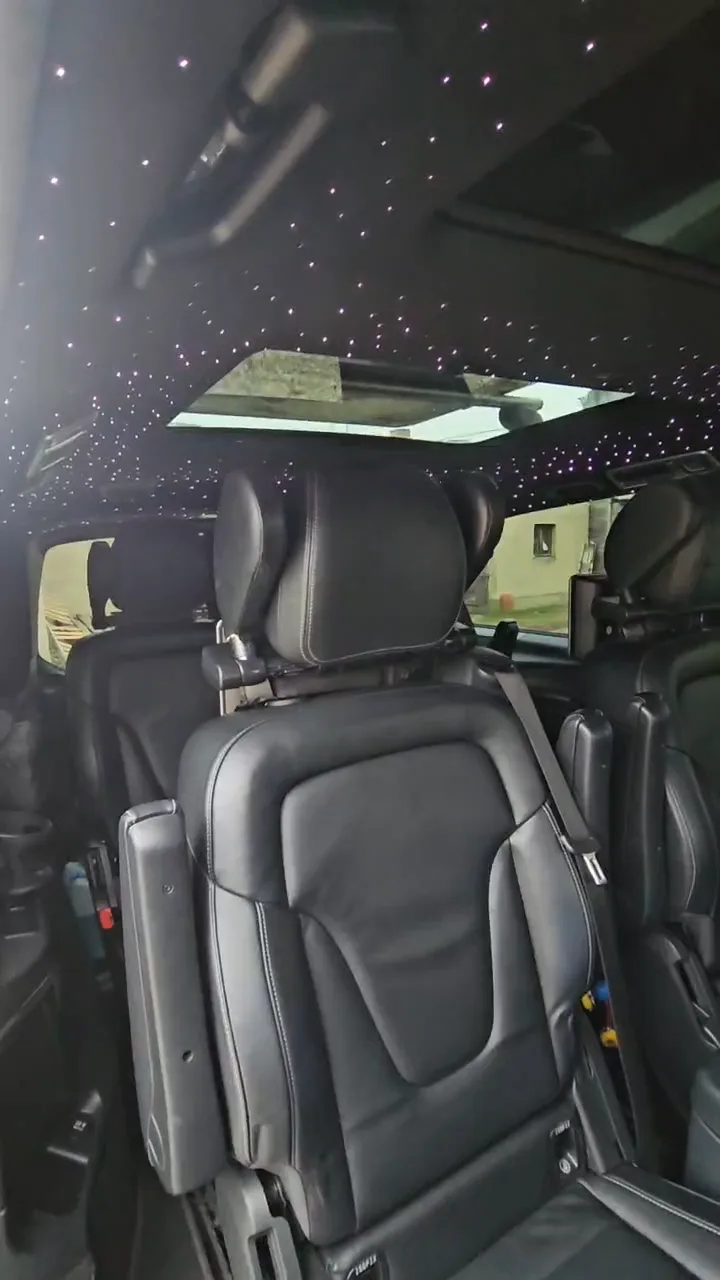
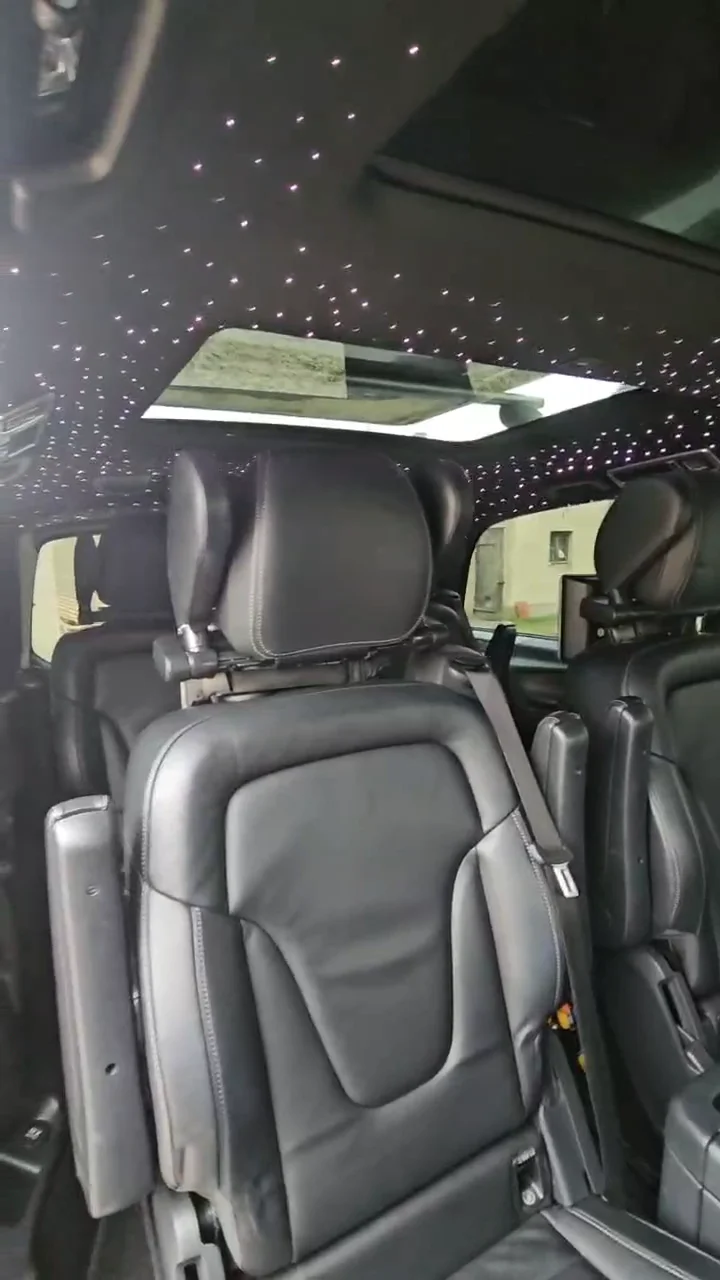
feat: blog media slider with thumbnails, sharper starry sky frame

diff --git a/apps/website/src/app/[locale]/blog/Blog.tsx b/apps/website/src/app/[locale]/blog/Blog.tsx
@@ -1,5 +1,6 @@
 "use client";
 
+import { ChevronLeft, ChevronRight, Play } from "lucide-react";
 import { useTranslations } from "next-intl";
 import { useCallback, useEffect, useRef, useState } from "react";
 
@@ -24,77 +25,108 @@ type Props = {
   locale: string;
 };
 
-function getMediaLayout(item: BlogPostMedia) {
-  const width = item.width ?? 0;
-  const height = item.height ?? 0;
-  const ratio = width > 0 && height > 0 ? width / height : 16 / 9;
+function PostMediaSlider({ media, title }: { media: BlogPostMedia[]; title: string }) {
+  const items = media.filter((item) => item.type);
+  const [current, setCurrent] = useState(0);
+  const thumbsRef = useRef<HTMLDivElement>(null);
 
-  if (ratio <= 0.8) {
-    return {
-      className: "w-full max-w-sm mx-auto",
-      aspectRatio: "9 / 16",
-    };
-  }
+  const go = useCallback(
+    (index: number) => setCurrent((index + items.length) % items.length),
+    [items.length],
+  );
 
-  if (ratio <= 1.2) {
-    return {
-      className: "w-full max-w-lg mx-auto",
-      aspectRatio: "1 / 1",
-    };
-  }
+  useEffect(() => {
+    const thumb = thumbsRef.current?.children[current] as HTMLElement | undefined;
+    thumb?.scrollIntoView({ block: "nearest", inline: "center", behavior: "smooth" });
+  }, [current]);
 
-  return {
-    className: "w-full",
-    aspectRatio: "16 / 9",
-  };
+  if (items.length === 0) return null;
+  const active = items[current];
+
+  return (
+    <div className="flex flex-col gap-2 p-2">
+      <div className="relative w-full aspect-[4/5] tablet:aspect-[4/3] rounded-md overflow-hidden bg-black">
+        {active.type === "video" ? (
+          <video
+            key={active.url}
+            src={active.url}
+            controls
+            playsInline
+            autoPlay={current > 0}
+            muted
+            loop
+            className="w-full h-full object-contain"
+          />
+        ) : (
+          // eslint-disable-next-line @next/next/no-img-element
+          <img src={active.url} alt={title} className="w-full h-full object-contain" />
+        )}
+        {items.length > 1 && (
+          <>
+            <button
+              type="button"
+              aria-label="Zurück"
+              onClick={() => go(current - 1)}
+              className="absolute left-2 top-1/2 -translate-y-1/2 w-9 h-9 rounded-full bg-black/50 text-white flex items-center justify-center hover:bg-black/70"
+            >
+              <ChevronLeft size={20} />
+            </button>
+            <button
+              type="button"
+              aria-label="Weiter"
+              onClick={() => go(current + 1)}
+              className="absolute right-2 top-1/2 -translate-y-1/2 w-9 h-9 rounded-full bg-black/50 text-white flex items-center justify-center hover:bg-black/70"
+            >
+              <ChevronRight size={20} />
+            </button>
+            <div className="absolute bottom-2 right-2 rounded-full bg-black/50 text-white text-xs px-2 py-0.5">
+              {current + 1} / {items.length}
+            </div>
+          </>
+        )}
+      </div>
+      {items.length > 1 && (
+        <div ref={thumbsRef} className="flex gap-2 overflow-x-auto pb-1">
+          {items.map((item, index) => (
+            <button
+              key={`${item.url}-${index}`}
+              type="button"
+              aria-label={`${index + 1} / ${items.length}`}
+              aria-current={index === current}
+              onClick={() => setCurrent(index)}
+              className={`relative shrink-0 w-16 h-16 rounded-md overflow-hidden bg-black border-2 transition-opacity ${
+                index === current ? "border-white opacity-100" : "border-transparent opacity-60 hover:opacity-100"
+              }`}
+            >
+              {item.type === "video" ? (
+                <>
+                  <video
+                    src={`${item.url}#t=0.5`}
+                    preload="metadata"
+                    muted
+                    playsInline
+                    className="w-full h-full object-cover pointer-events-none"
+                  />
+                  <span className="absolute inset-0 flex items-center justify-center bg-black/30 text-white">
+                    <Play size={16} fill="currentColor" />
+                  </span>
+                </>
+              ) : (
+                // eslint-disable-next-line @next/next/no-img-element
+                <img src={item.url} alt="" className="w-full h-full object-cover" />
+              )}
+            </button>
+          ))}
+        </div>
+      )}
+    </div>
+  );
 }
 
 function PostCard({ post, locale }: { post: BlogPost; locale: string }) {
   return (
     <article className="flex flex-col gap-3 w-full border gk-stroke-neutral-low rounded-lg overflow-hidden gk-fill-neutral-xlow">
-      {post.media.length > 0 && (
-        <div className="flex flex-col gap-2 p-2">
-          {post.media.map((item, index) => {
-            const layout = getMediaLayout(item);
-
-            if (item.type === "video") {
-              return (
-                <div
-                  key={`${post.id}-media-${index}`}
-                  className={layout.className}
-                  style={{ aspectRatio: layout.aspectRatio }}
-                >
-                  <video
-                    src={item.url}
-                    controls
-                    playsInline
-                    className="w-full h-full rounded-md gk-fill-inverted-xxhigh object-cover"
-                  />
-                </div>
-              );
-            }
-
-            if (item.type === "image") {
-              return (
-                <div
-                  key={`${post.id}-media-${index}`}
-                  className={layout.className}
-                  style={{ aspectRatio: layout.aspectRatio }}
-                >
-                  {/* eslint-disable-next-line @next/next/no-img-element */}
-                  <img
-                    src={item.url}
-                    alt={post.title}
-                    className="w-full h-full rounded-md gk-fill-inverted-xxhigh object-cover"
-                  />
-                </div>
-              );
-            }
-
-            return null;
-          })}
-        </div>
-      )}
+      <PostMediaSlider media={post.media} title={post.title} />
       <div className="flex flex-col gap-2 px-4 pb-4">
         {post.title && (
           <h2 className="gk-text-neutral-high text-lg font-semibold">{post.title}</h2>
